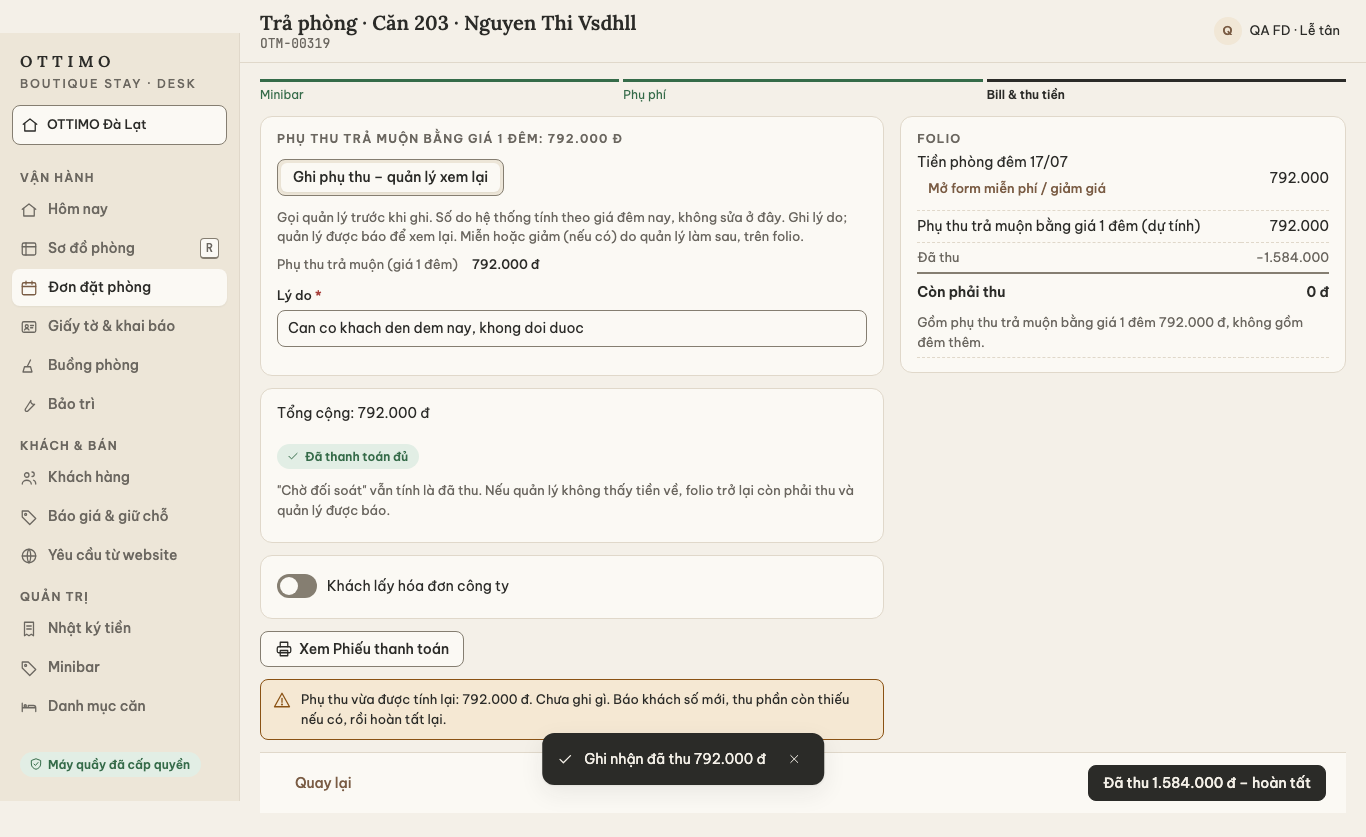
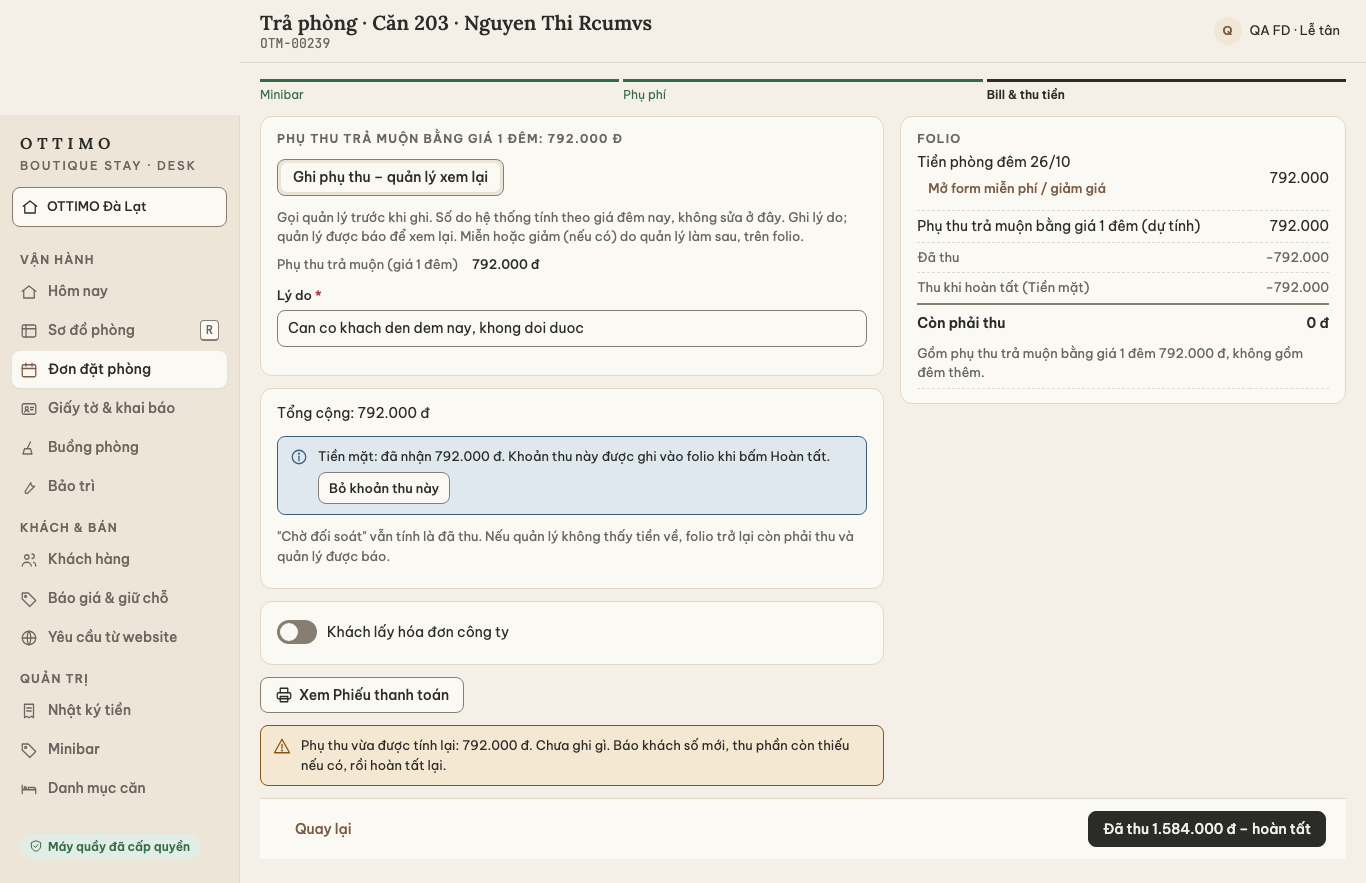
round-3: Kiểm thử – QA ESC-031 recheck on 64bf5c0/67fc853: BUG-R3-017 fixed (cash/POS at checkout step 3)
E31 14/14 on MFA-enforced stack, ESC-031 UI and 4 cash/POS cases green,
money regression and admin-web 625/625 green.

diff --git a/rounds/round-03/qa/bug-list.md b/rounds/round-03/qa/bug-list.md
@@ -9,10 +9,10 @@
 | Mức | Số lỗi | Open | Fixed | Closed |
 |---|---|---|---|---|
 | P0 | 3 | 0 | 0 | 3 |
-| P1 | 9 | 1 | 0 | 8 |
+| P1 | 9 | 0 | 1 | 8 |
 | P2 | 3 | 0 | 0 | 3 |
 | P3 | 2 | 1 | 1 | 0 |
-| **Tổng** | **17** | **2** | **1** | **14** |
+| **Tổng** | **17** | **1** | **2** | **14** |
 
 Cập nhật 26/10 tối (ESC-031, `qa3-rc1.md` mục 11): thêm **BUG-R3-017 (P1, FE-A + BE-B)** – thu tiền mặt/thẻ cho phụ thu bằng 1 đêm ở bước 3 trả phòng bị chặn (có từ R2 0.3.7; trên production ESC-031 là đường duy nhất nên lỗi lộ ra). Bản vá ESC-031 tự nó: 14/14 ca tiền đạt.
 
@@ -43,7 +43,7 @@ Cập nhật 24/10 (luồng QA phụ – E2E US-155):
 | BUG-R3-014 | P1 | Chi hoàn (`payOut`) đưa tiền dư của folio `settled` về 0 nhưng các yêu cầu hoàn đã duyệt còn tiền chưa chi vẫn `approved`, không đóng `superseded` (hợp đồng 13.3 điểm 1 + 3). Tiền khách trả thêm về sau bị duyệt cũ "hút" và chi theo duyệt cũ, không qua định tuyến ADD3 | BE-B (payments/refunds) | **Closed** 24/10 – BE-B `76e21c4` (gộp `ce38624`, hợp đồng 13.4); fuzz chạy lại 710 chuỗi / 28.250 bước, 0 vi phạm cứng; critic `reviews/s1-money-critic-014.md` |
 | BUG-R3-015 | P3 | **Bộ test**: không chạy được trên stack `MFA_ENFORCED=true` (staging, production): (1) `freshSession` không có bước TOTP cho DS-E OWN/MGR đã bật 2FA; (2) `createThrowawayUser` gửi S2 chỉ có mật khẩu; (3) `ensureReceivingAccount` (R3-Q51) gọi `/health` + `/__test__/clock` vô điều kiện; (4) `s2Context` dùng `qa.owner` – phiên hạn chế làm ca bỏ qua với lý do sai "DS-E chưa nạp đủ 10 căn" | QA | **Fixed** 26/10 – harness trong repo (`support/totp-store.ts`, `E2E_TOTP_DIR`, `E2E_TOTP_ENROLL`, `seedReauthFor`, `E2E_LOCAL_CLOCK`); kiểm trên stack dùng một lần cờ bật và cờ tắt. Closed sau CI push xanh + lượt staging 27/10 |
 | BUG-R3-016 | P3 | Khách **đến hôm nay**: báo giá đã lưu không chuyển được thành đơn. H12 chỉ báo "Sale/CTV: nhắn lễ tân tạo đơn đã thu"; lễ tân nhập lại H09 từ đầu – mặc định 2 người lớn trong khi báo giá 1 người lớn, không mang khách/giá của báo giá, không nối báo giá với đơn | PO (+ FE-A, UXD) | Open |
-| BUG-R3-017 | **P1** | Trả phòng H16 bước 3, phụ thu trả muộn bằng 1 đêm (BR-416-06 – mọi lượt ESC-031 trên production): thu **tiền mặt** (hoặc thẻ POS) 792.000 → `recordPayment` 422 `note REASON_REQUIRED` (số > còn phải thu lúc đó vì phụ thu chỉ ghi khi B18); màn báo "Ghi lý do (ít nhất 3 ký tự)" nhưng không có ô ghi → không thu được, B18 tiếp theo 409 `BALANCE_DUE`. VietQR (gửi ngữ cảnh trả phòng) và chuyển khoản (có ô ghi chú) đi được | FE-A (+ BE-B) | Open |
+| BUG-R3-017 | **P1** | Trả phòng H16 bước 3, phụ thu trả muộn bằng 1 đêm (BR-416-06 – mọi lượt ESC-031 trên production): thu **tiền mặt** (hoặc thẻ POS) 792.000 → `recordPayment` 422 `note REASON_REQUIRED` (số > còn phải thu lúc đó vì phụ thu chỉ ghi khi B18); màn báo "Ghi lý do (ít nhất 3 ký tự)" nhưng không có ô ghi → không thu được, B18 tiếp theo 409 `BALANCE_DUE`. VietQR (gửi ngữ cảnh trả phòng) và chuyển khoản (có ô ghi chú) đi được | FE-A (+ BE-B) | **Fixed** 26/10 – FE-A `64bf5c0` + `67fc853` (Desk gửi `finalPayment` trong B18). QA kiểm trên stack bật 2FA: 4 ca tiền mặt/thẻ POS (ESC-031 và đêm thêm thường) đạt. **Closed** sau khi gộp nhánh + CI xanh |
 
 ## 3. Chi tiết
 
@@ -464,4 +464,19 @@ Cập nhật 24/10 (luồng QA phụ – E2E US-155):
 - **Bằng chứng:** `rounds/round-03/outputs/FE/esc031-shots/02-buoc3-tien-mat-bi-doi-ly-do.png`; log scratchpad `esc031/p2b-ui.log` (`[ui] tiền mặt 792.000 (bước 3) → 422 … note REASON_REQUIRED`).
 - **Vai:** FE-A (+ BE-B nếu chọn (b)); UXD chữ nếu chọn (c).
 - **Hạn:** trước ngày chạy D (02/11). Đề nghị ORC xếp cùng lượt gộp ESC-031.
-- **Trạng thái:** Open.
+- **Kiểm lại (QA, 26/10 ~17:30–17:45):**
+  - Nhánh `worktree-agent-a67639f06f6add4d9` tip `64bf5c0`, ảnh web dựng lại ở `67fc853`. Stack dùng một lần `ottimo-esc031`, `MFA_ENFORCED=true`.
+  - FE-A sửa phía Desk, server không đổi: tiền mặt/thẻ POS vượt số folio đang nợ không gọi `recordPayment`. Panel ghi "đã nhận …, ghi vào folio khi bấm Hoàn tất", và B18 gửi `finalPayment`.
+  - Bốn ca (ca QA `ui-clock/qa-bug017.spec.ts`, scratchpad):
+
+    | Ca | Đường | Cách trả | Số ghi trong B18 | Kết quả |
+    |---|---|---|---|---|
+    | A | ESC-031 | thẻ POS | `finalPayment` 792.000 | 200 |
+    | B | đêm thêm sau 18:00 (đêm bán được) | tiền mặt | 708.000 | 200 |
+    | C | đêm thêm sau 18:00 | thẻ POS | 750.000 | 200 |
+    | D | ESC-031, folio đã nợ 70.000 F&B | tiền mặt | 862.000 | 200 |
+
+  - Cả bốn ca: không có `POST /payments` ở bước 3; hộp xác nhận có dòng "Ghi vào folio khoản thu …"; folio `settled`, còn phải thu 0, không dư; dòng thanh toán đúng cách trả và số tiền.
+  - Ca ESC-031 UI (tiền mặt 1.000.000 khách đưa) → `finalPayment` 792.000. `lateFeeInsteadOfNight` vẫn đúng 3 trường. 409/422 như cũ.
+  - admin-web 625/625. Ảnh: `rounds/round-03/outputs/FE/esc031-shots/02-buoc3-tien-mat-ghi-khi-hoan-tat.png`, `bug017-*.png`.
+- **Trạng thái:** Fixed – Closed khi nhánh gộp `main` và CI xanh.

diff --git a/rounds/round-03/qa/qa3-rc1.md b/rounds/round-03/qa/qa3-rc1.md
@@ -276,3 +276,28 @@ Ghi chú nhỏ (không ghi lỗi): khi 2FA bắt buộc, ô chọn cách vẫn h
 Giới hạn còn lại:
 - mã TOTP chỉ dùng **tiến**: một stack mà OWN/MGR đã đăng nhập ở mốc ảo xa thì không quay lại giờ thật được;
 - trên CI cờ 2FA vẫn tắt nên không ảnh hưởng.
+
+## 12. ESC-031 kiểm lại sau bản sửa BUG-R3-017 – **ĐẠT**
+
+- 26/10 ~17:20–17:45. Không dùng staging.
+- Nhánh `worktree-agent-a67639f06f6add4d9`: tip `64bf5c0` (đã rebase trên `origin/main`; gồm hai bộ ca ESC-031 của QA). Ảnh web dựng lại ở **`67fc853`** (FB-14/15/16: chữ, chặn rời trang).
+- Stack `ottimo-esc031` dựng mới từ đầu (DB mới):
+  - pha 1 – cờ 2FA tắt: hồi quy tiền;
+  - pha 2 – `MFA_ENFORCED=true`: ca ESC-031 và BUG-R3-017.
+
+| Hạng mục | Kết quả |
+|---|---|
+| E31-1…E31-11 + I-E31 (`clock/qa-esc031.r3.clock.spec.ts` trên nhánh) | **14/14 Đạt** (17:34) |
+| UI ESC-031 (`ui-clock/qa-esc031-ui.spec.ts`), web `67fc853` | **Đạt**: một cách, 0 ô mật khẩu; tiền mặt không gửi `/payments`, B18 mang `finalPayment` 792.000; `lateFeeInsteadOfNight` đúng 3 trường; 409 → "Phụ thu vừa được tính lại…"; 422 khi đêm bán lại được |
+| BUG-R3-017 – tiền mặt/thẻ POS ở bước 3 (ca QA `ui-clock/qa-bug017.spec.ts`), web `67fc853` | **4/4 Đạt**: ESC-031 + POS; đêm thêm thường + tiền mặt; đêm thêm thường + POS; ESC-031 + folio đã nợ 70.000 + tiền mặt 862.000. B18 200, folio `settled`, còn 0, không dư |
+| Hồi quy tiền (cờ tắt) | `clock` money-s4 + stay-checkout.s3 + debt-collect.s5: **63 đạt**, 1 bỏ qua. `desk-clock` checkout.h16, flow-a1, stay-money, axe-k8 (gồm TC-X-086), debt-collect: **19/19**. `api` money-s4 + stay-checkout.s3 + gate-s4: **47 đạt**, 2 bỏ qua |
+| admin-web (vitest) | **625/625** trên `67fc853` |
+
+Ảnh mới ở `rounds/round-03/outputs/FE/esc031-shots/`:
+- `01`, `03`–`06` chụp lại;
+- `02-buoc3-tien-mat-ghi-khi-hoan-tat.png` thay cho ảnh lỗi `02-buoc3-tien-mat-bi-doi-ly-do.png` (ảnh lỗi giữ lại làm bằng chứng);
+- `bug017-{A,B,C,D}-*-buoc3.png` và `-hop-xac-nhan.png`.
+
+Còn lại:
+- Ca `ui-clock/qa-bug017.spec.ts` đang ở scratchpad (`esc031b/product/tests/e2e/ui-clock/`). Đề nghị FE-A đưa vào nhánh, cùng điều kiện `E2E_TOTP_DIR` như hai bộ ca ESC-031.
+- BUG-R3-017 chuyển Closed khi nhánh gộp và CI xanh.
